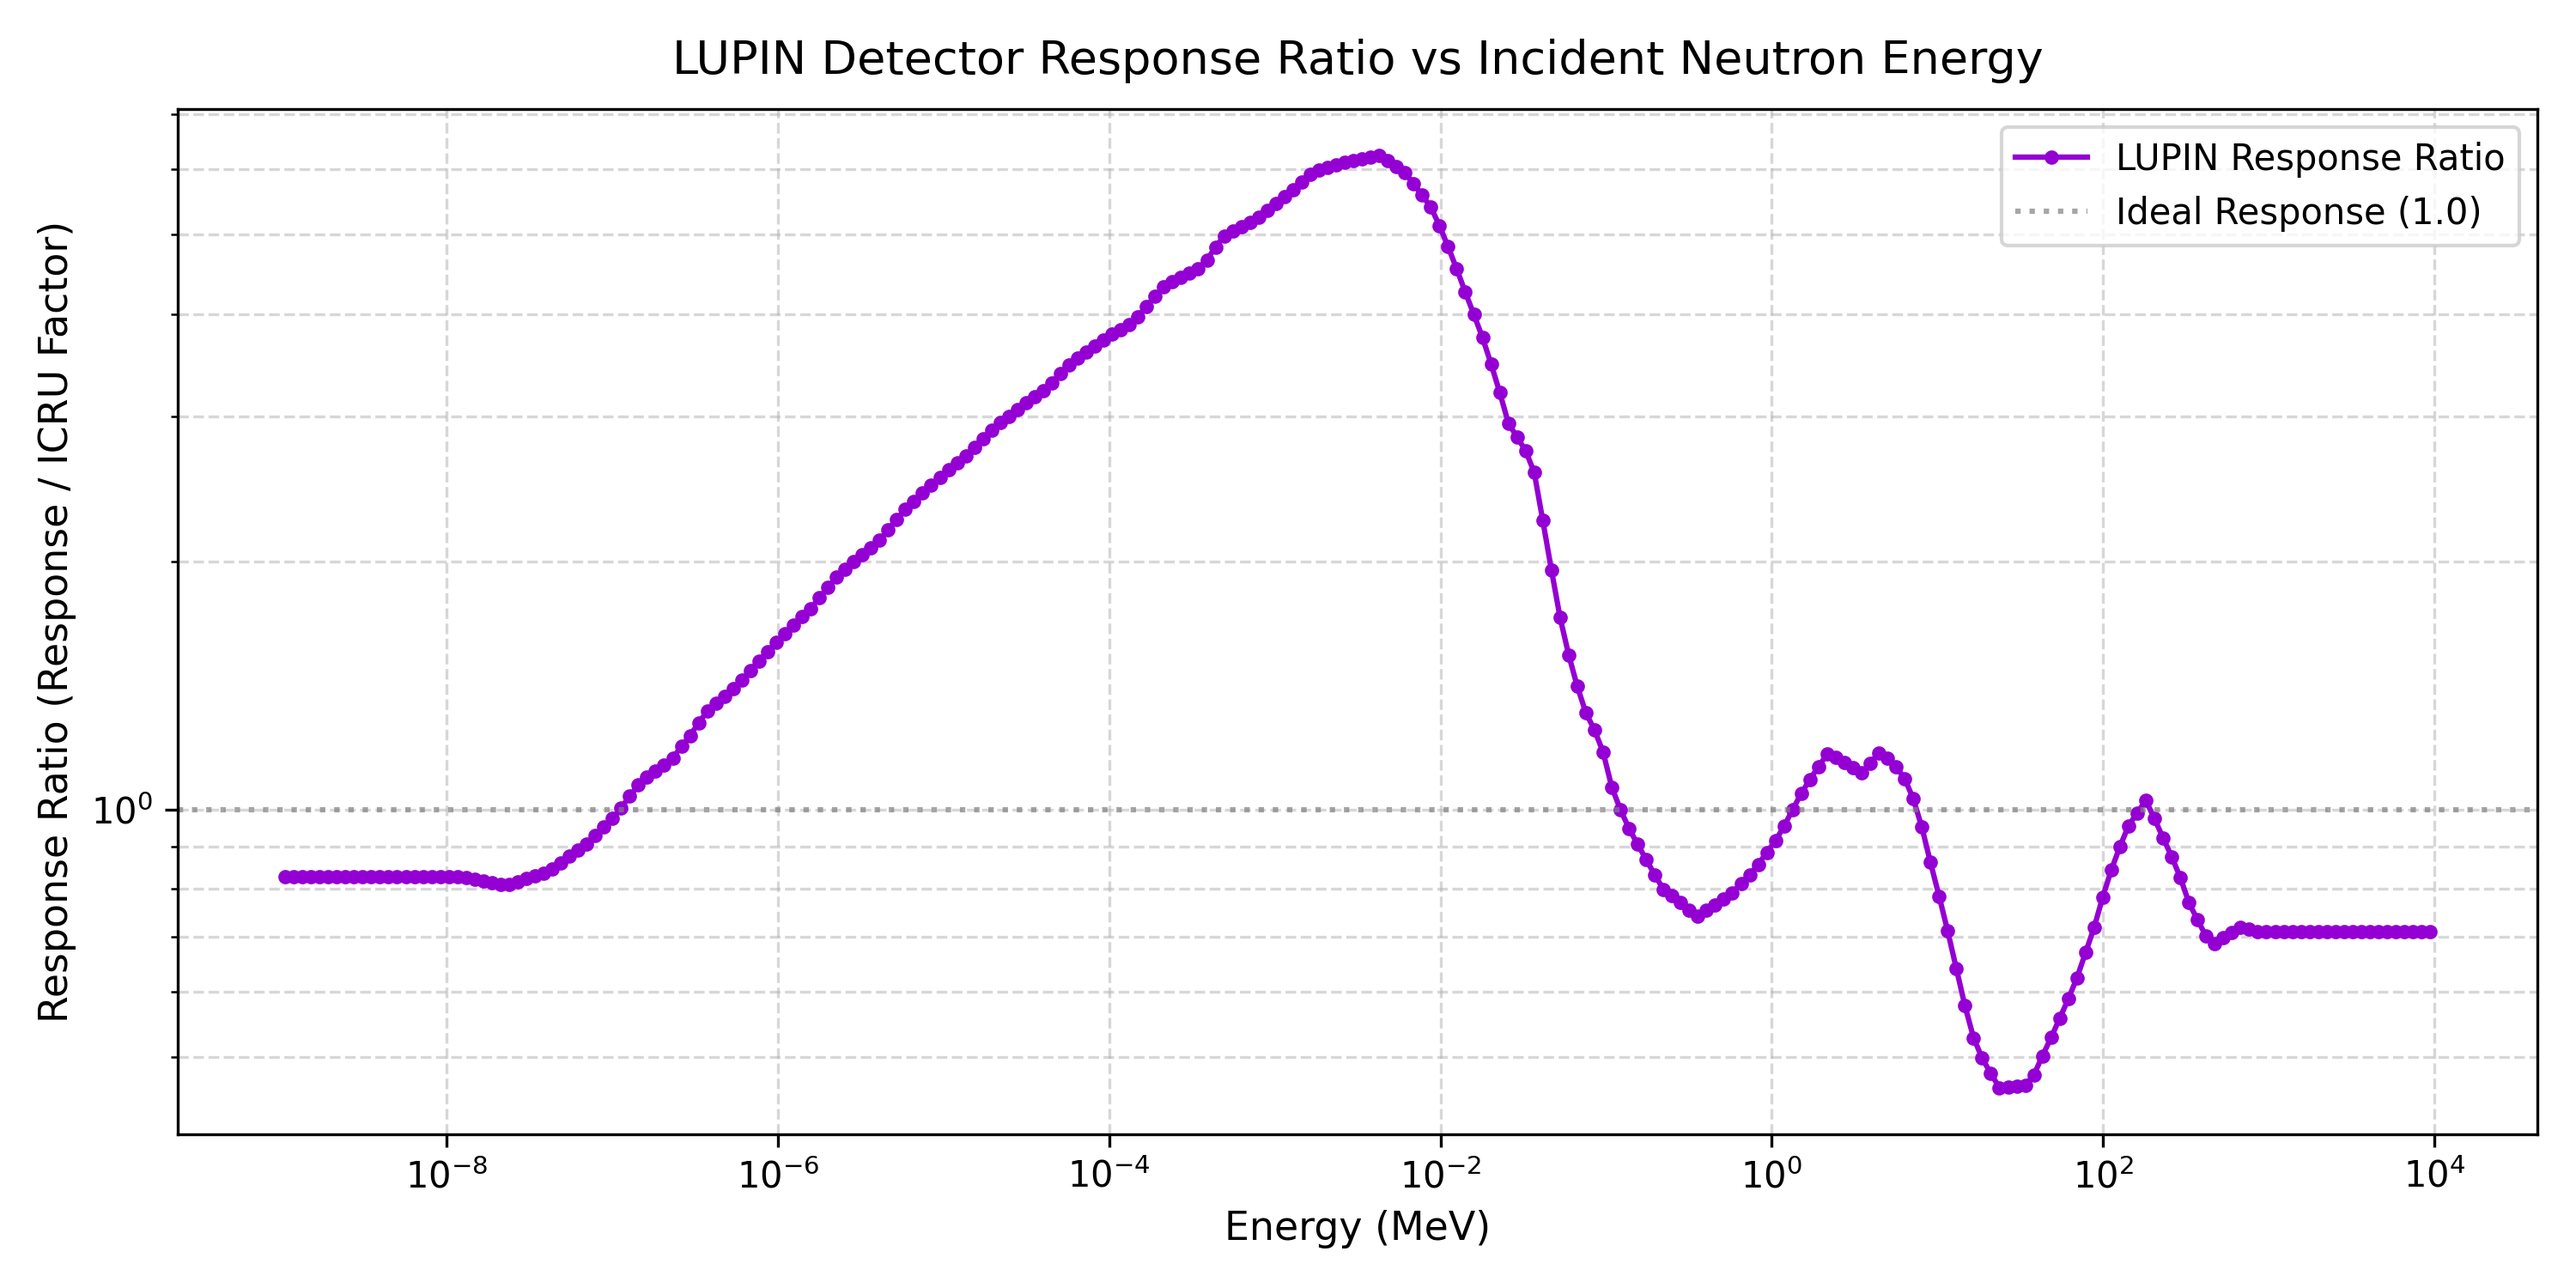
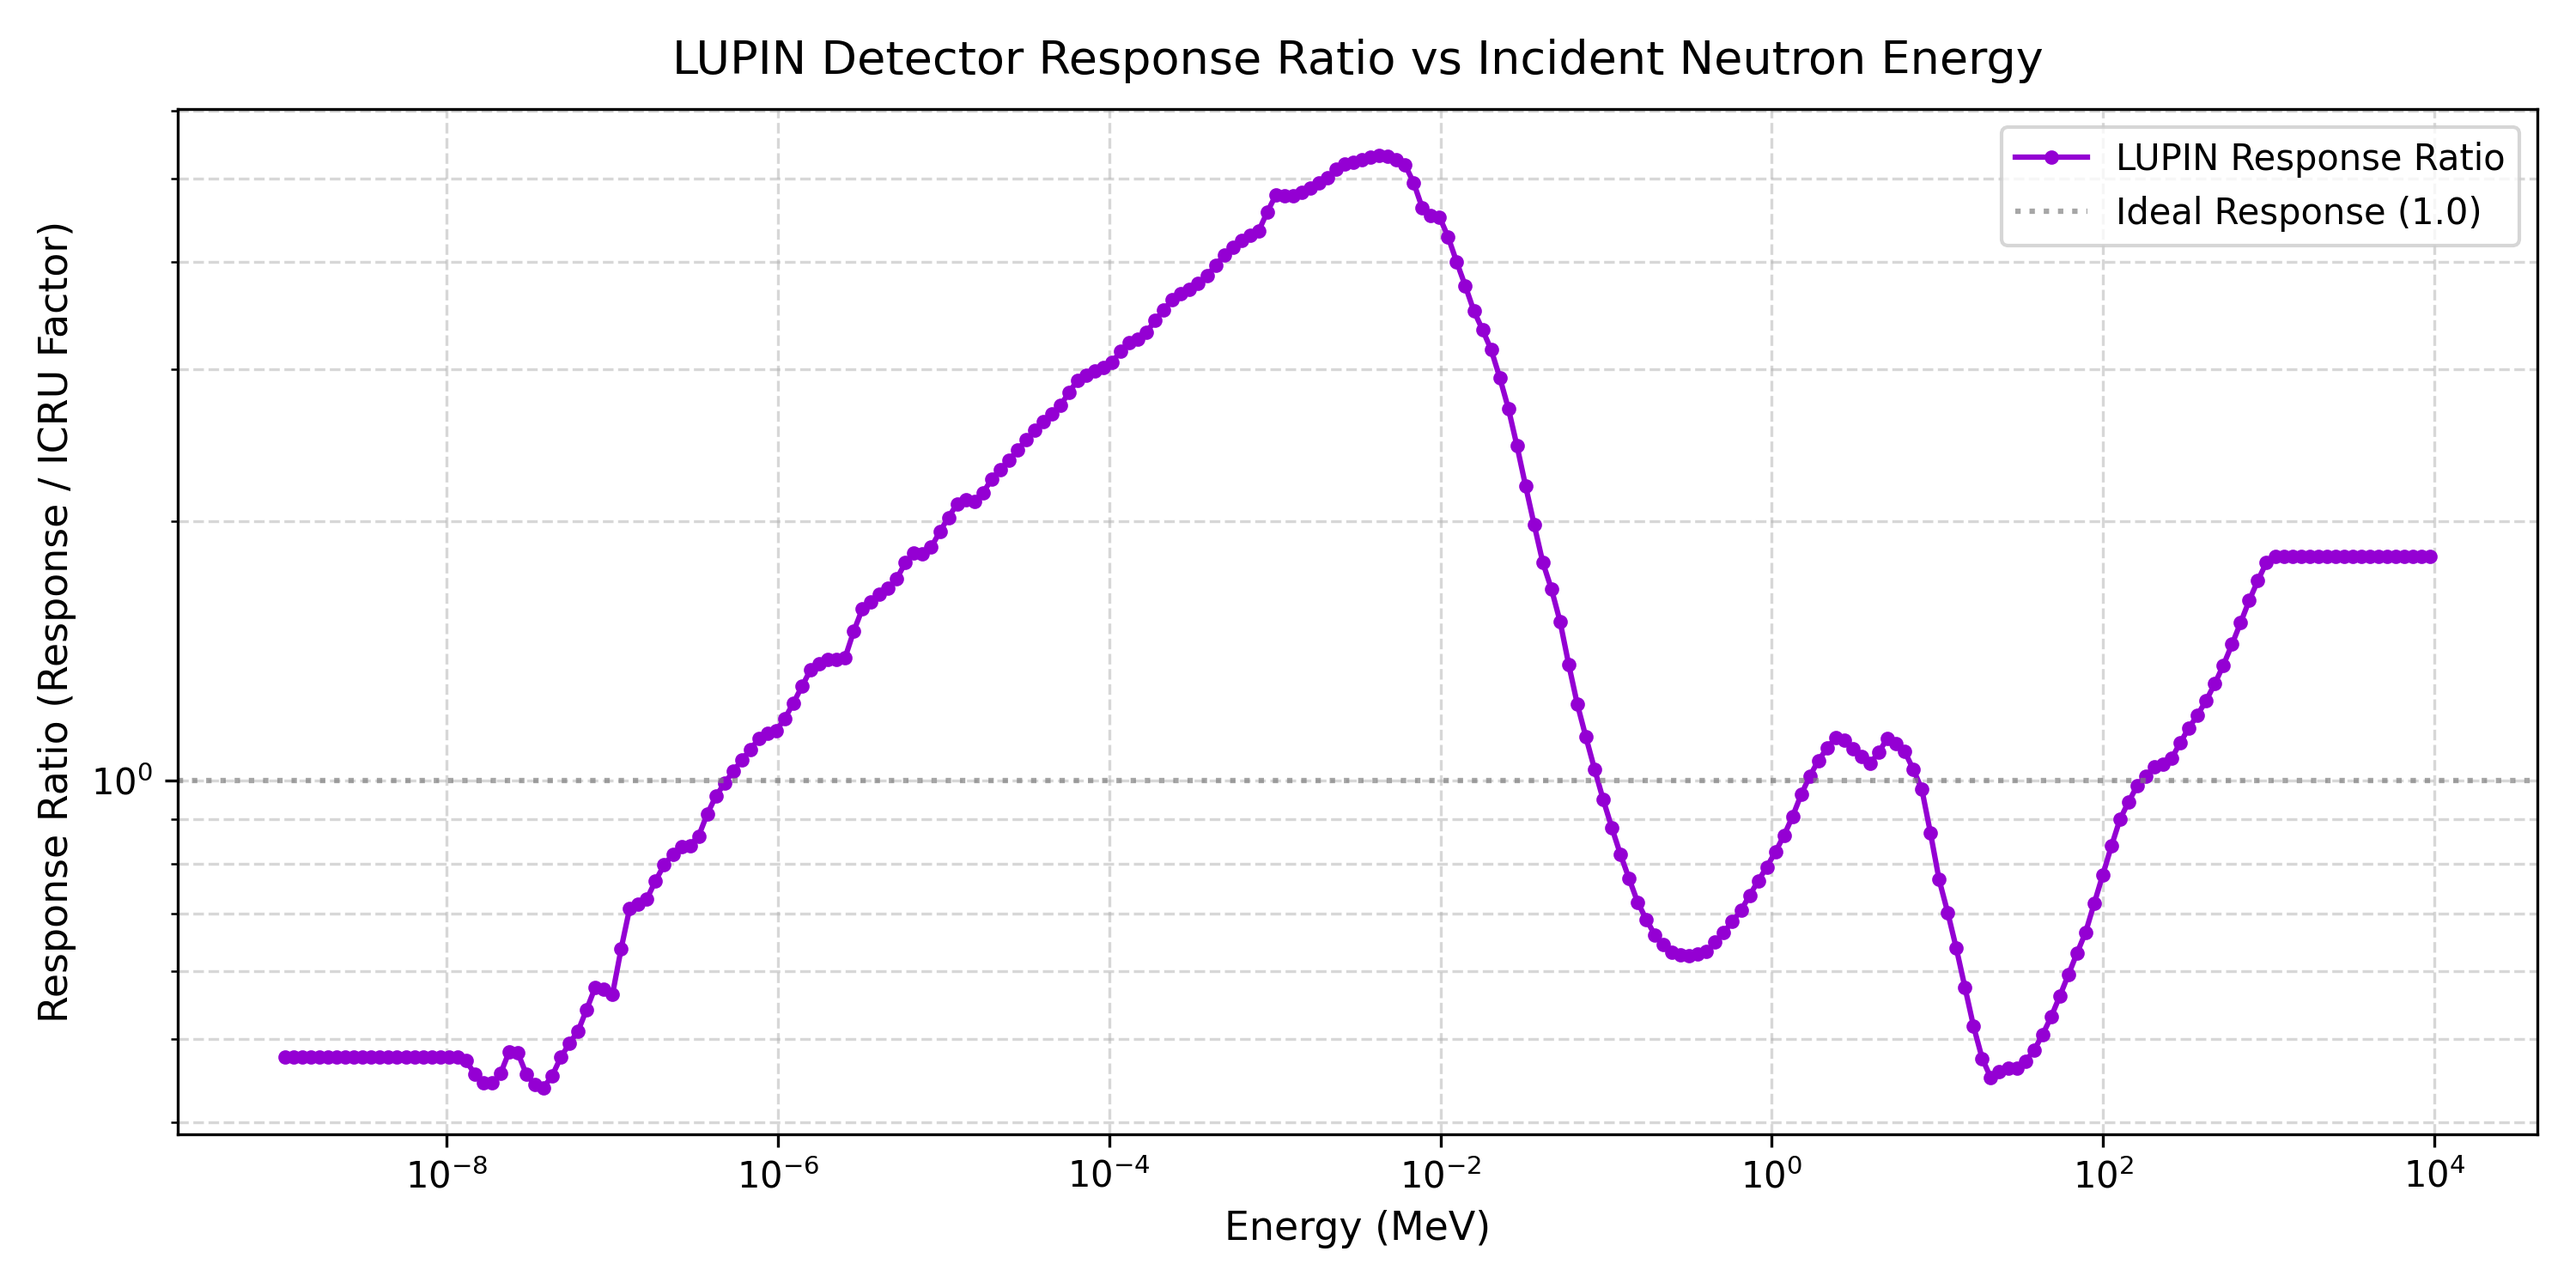
Use ELSE data for LUPIN correction estimation
This new version of the LUPIN correction calculation uses the LUPIN
relative response coming from ELSE. With this code the correction is a
0.77 underestimation of the real dose.

diff --git a/SwissFEL25/LUPIN_responsefolding/LUPIN-Folding.py b/SwissFEL25/LUPIN_responsefolding/LUPIN-Folding.py
@@ -216,6 +216,28 @@ lupin_ratio_response = np.array([
     0.7105233980818508
 ])
 
+# Data from ELSE Nuclear
+# Energy centrum from ELSE Nuclear (position 6)
+energy_centrum_else = [1.27E-08, 1.60E-08, 2.01E-08, 2.53E-08, 3.18E-08, 4.01E-08, 5.05E-08, 6.35E-08, 8.00E-08, 1.01E-07, 1.27E-07, 1.60E-07, 2.01E-07, 2.53E-07, 3.18E-07, 4.01E-07, 5.05E-07, 6.35E-07, 8.00E-07, 1.01E-06, 1.27E-06, 1.60E-06, 2.01E-06, 2.53E-06, 3.18E-06, 4.01E-06, 5.05E-06, 6.35E-06, 8.00E-06, 1.01E-05, 1.27E-05, 1.60E-05, 2.01E-05, 2.53E-05, 3.18E-05, 4.01E-05, 5.05E-05, 6.35E-05, 8.00E-05, 1.01E-04, 0.000126729, 0.000159541, 0.000200852, 0.000252857, 0.000318328, 0.000400751, 0.000504513, 0.000635145, 0.000799601, 0.001006649, 0.001267295, 0.001595413, 0.002008524, 0.002528574, 0.00318328, 0.004007512, 0.00504513, 0.006351455, 0.00799605, 0.010066101, 0.012672387, 0.015954132, 0.020085242, 0.025285744, 0.031832798, 0.040075116, 0.050451301, 0.063514103, 0.079959942, 0.100661005, 0.126723868, 0.159541317, 0.200852417, 0.252857441, 0.318327977, 0.400751158, 0.504517465, 0.635146638, 0.799599418, 1.006610053, 1.267238675, 1.595413172, 2.008524175, 2.528574413, 3.183279766, 4.007511578, 5.045130083, 6.351454837, 7.996050278, 10.06654616, 12.67294776, 15.95413172, 20.08524175, 25.28574413, 31.83279766, 40.07511578, 50.45130083, 63.51454837, 79.96005715, 100.6604443, 126.7238675, 159.5413172, 200.8524175, 252.8574413, 318.3279766, 400.7511578, 504.5174645, 635.1510938, 799.6005715, 1006.604443]
+
+# LUPIN response from ELSE Nuclear (nSv cm2)
+lupin_response_else = [4.47E-03, 4.35E-03, 4.52E-03, 5.26E-03, 4.87E-03, 4.96E-03, 5.64E-03, 6.21E-03, 7.22E-03, 7.27E-03, 9.30E-03, 9.63E-03, 1.07E-02, 1.13E-02, 1.14E-02, 1.28E-02, 1.37E-02, 1.44E-02, 1.51E-02, 1.52E-02, 1.63E-02, 1.76E-02, 1.78E-02, 1.75E-02, 1.96E-02, 2.00E-02, 2.03E-02, 2.16E-02, 2.11E-02, 2.24E-02, 2.35E-02, 2.28E-02, 2.39E-02, 2.46E-02, 2.55E-02, 2.63E-02, 2.69E-02, 2.83E-02, 2.85E-02, 2.85E-02, 0.029651862, 0.029622746, 0.030899732, 0.03195568, 0.032030384, 0.03272621, 0.03396654, 0.034681216, 0.034887348, 0.037801036, 0.037366036, 0.037747154, 0.038408006, 0.040388474, 0.041148448, 0.042155386, 0.042649604, 0.04538761, 0.043724054, 0.047570846, 0.04880758, 0.050109158, 0.052954348, 0.055869022, 0.056676208, 0.05912114, 0.06600922, 0.06840926, 0.0742342, 0.08125046, 0.08929216, 0.09894162, 0.11192782, 0.12838184, 0.15109116, 0.17654736, 0.21444746, 0.2509486, 0.2930218, 0.33782564, 0.37499436, 0.41748168, 0.44993384, 0.46925132, 0.44420112, 0.42532676, 0.45460284, 0.43368978, 0.40160882, 0.34213736, 0.32150386, 0.29367488, 0.26843386, 0.25436654, 0.23164098, 0.21905846, 0.214513, 0.2149219, 0.2144086, 0.22201356, 0.2333804, 0.24294982, 0.26888104, 0.27311852, 0.29591426, 0.3162566, 0.34469516, 0.38353428, 0.43022718, 0.47279222]
+lupin_response_else = [x*1000 for x in lupin_response_else] # convert to pSv cm2
+
+# Convertion factors from ELSE Nuclear from fluence to dose H*(10) (pSv cm2)
+conv_factors_else = [9.383712983, 9.772498935, 10.17734818, 10.59894685, 10.95365461, 11.32002342, 11.69865177, 12.08994208, 12.49431027, 12.90561297, 13.10199063, 13.30135319, 13.50046245, 13.52552301, 13.55063019, 13.5757842, 13.59606416, 13.4956944, 13.39606494, 13.29614025, 13.16194873, 13.02908828, 12.89567043, 12.66342745, 12.43536612, 12.21141004, 11.99064466, 11.7536177, 11.52128023, 11.29313945, 11.05576705, 10.82334912, 10.59663918, 10.41626881, 10.23896792, 10.06468339, 9.89335114, 9.72448949, 9.558502594, 9.395084952, 9.226041284, 9.060041858, 8.897117204, 8.742430844, 8.590433285, 8.441077042, 8.294687238, 8.159698022, 8.026906914, 7.898063469, 7.831071953, 7.764651337, 7.701366152, 7.775691366, 7.850734183, 7.926501926, 8.028251192, 8.787250894, 9.618019913, 10.5458115, 12.27884497, 14.29705728, 16.66211588, 20.39610481, 25.26409658, 32.38000703, 41.51735925, 53.78601201, 69.21314337, 88.58168463, 111.5170034, 139.356354, 170.5630585, 204.0007197, 241.9167899, 279.8964632, 323.3142374, 358.8473411, 388.0323782, 416.3218769, 424.4635418, 422.2049496, 419.915285, 415.3542978, 411.1722861, 407.9746844, 404.7521224, 401.8391596, 408.9851343, 441.3949549, 493.7937484, 554.3239803, 599.0393486, 549.2624609, 500.1117995, 446.2700239, 398.2983658, 357.0782328, 319.4044506, 284.229173, 258.8419155, 246.988125, 259.9459329, 260, 260, 260, 260, 260, 260, 260]
+
+# Calculate the LUPIN ratio from ELSE Nuclear data to compare with your lupin_ratio_at_sim_energies
+# Ratio = Absolute Response / Conversion Factor
+lupin_ratio_else = [r / c for r, c in zip(lupin_response_else, conv_factors_else)]
+
+# Use data from ELSE for the LUPIN relative response
+USEELSEDATA = True
+
+if USEELSEDATA:
+    lupin_energies_MeV = energy_centrum_else
+    lupin_ratio_response = lupin_ratio_else
+
 from scipy.interpolate import interp1d
 
 # ==============================================================================
@@ -303,21 +325,6 @@ color_lupin = 'tab:green'
 
 line2 = ax2.plot(E_center, icru_at_sim_energies, color=color_icru, label='ICRU Factor [pSv cm$^{2}$]', linestyle='--')
 line3 = ax2.plot(E_center, lupin_ratio_at_sim_energies, color=color_lupin, label='LUPIN Ratio', linestyle='-.')
-
-# Data from ELSE Nuclear
-# Energy centrum from ELSE Nuclear (position 6)
-energy_centrum_else = [1.27E-08, 1.60E-08, 2.01E-08, 2.53E-08, 3.18E-08, 4.01E-08, 5.05E-08, 6.35E-08, 8.00E-08, 1.01E-07, 1.27E-07, 1.60E-07, 2.01E-07, 2.53E-07, 3.18E-07, 4.01E-07, 5.05E-07, 6.35E-07, 8.00E-07, 1.01E-06, 1.27E-06, 1.60E-06, 2.01E-06, 2.53E-06, 3.18E-06, 4.01E-06, 5.05E-06, 6.35E-06, 8.00E-06, 1.01E-05, 1.27E-05, 1.60E-05, 2.01E-05, 2.53E-05, 3.18E-05, 4.01E-05, 5.05E-05, 6.35E-05, 8.00E-05, 1.01E-04, 0.000126729, 0.000159541, 0.000200852, 0.000252857, 0.000318328, 0.000400751, 0.000504513, 0.000635145, 0.000799601, 0.001006649, 0.001267295, 0.001595413, 0.002008524, 0.002528574, 0.00318328, 0.004007512, 0.00504513, 0.006351455, 0.00799605, 0.010066101, 0.012672387, 0.015954132, 0.020085242, 0.025285744, 0.031832798, 0.040075116, 0.050451301, 0.063514103, 0.079959942, 0.100661005, 0.126723868, 0.159541317, 0.200852417, 0.252857441, 0.318327977, 0.400751158, 0.504517465, 0.635146638, 0.799599418, 1.006610053, 1.267238675, 1.595413172, 2.008524175, 2.528574413, 3.183279766, 4.007511578, 5.045130083, 6.351454837, 7.996050278, 10.06654616, 12.67294776, 15.95413172, 20.08524175, 25.28574413, 31.83279766, 40.07511578, 50.45130083, 63.51454837, 79.96005715, 100.6604443, 126.7238675, 159.5413172, 200.8524175, 252.8574413, 318.3279766, 400.7511578, 504.5174645, 635.1510938, 799.6005715, 1006.604443]
-
-# LUPIN response from ELSE Nuclear (nSv cm2)
-lupin_response_else = [4.47E-03, 4.35E-03, 4.52E-03, 5.26E-03, 4.87E-03, 4.96E-03, 5.64E-03, 6.21E-03, 7.22E-03, 7.27E-03, 9.30E-03, 9.63E-03, 1.07E-02, 1.13E-02, 1.14E-02, 1.28E-02, 1.37E-02, 1.44E-02, 1.51E-02, 1.52E-02, 1.63E-02, 1.76E-02, 1.78E-02, 1.75E-02, 1.96E-02, 2.00E-02, 2.03E-02, 2.16E-02, 2.11E-02, 2.24E-02, 2.35E-02, 2.28E-02, 2.39E-02, 2.46E-02, 2.55E-02, 2.63E-02, 2.69E-02, 2.83E-02, 2.85E-02, 2.85E-02, 0.029651862, 0.029622746, 0.030899732, 0.03195568, 0.032030384, 0.03272621, 0.03396654, 0.034681216, 0.034887348, 0.037801036, 0.037366036, 0.037747154, 0.038408006, 0.040388474, 0.041148448, 0.042155386, 0.042649604, 0.04538761, 0.043724054, 0.047570846, 0.04880758, 0.050109158, 0.052954348, 0.055869022, 0.056676208, 0.05912114, 0.06600922, 0.06840926, 0.0742342, 0.08125046, 0.08929216, 0.09894162, 0.11192782, 0.12838184, 0.15109116, 0.17654736, 0.21444746, 0.2509486, 0.2930218, 0.33782564, 0.37499436, 0.41748168, 0.44993384, 0.46925132, 0.44420112, 0.42532676, 0.45460284, 0.43368978, 0.40160882, 0.34213736, 0.32150386, 0.29367488, 0.26843386, 0.25436654, 0.23164098, 0.21905846, 0.214513, 0.2149219, 0.2144086, 0.22201356, 0.2333804, 0.24294982, 0.26888104, 0.27311852, 0.29591426, 0.3162566, 0.34469516, 0.38353428, 0.43022718, 0.47279222]
-lupin_response_else = [x*1000 for x in lupin_response_else] # convert to pSv cm2
-
-# Convertion factors from ELSE Nuclear from fluence to dose H*(10) (pSv cm2)
-conv_factors_else = [9.383712983, 9.772498935, 10.17734818, 10.59894685, 10.95365461, 11.32002342, 11.69865177, 12.08994208, 12.49431027, 12.90561297, 13.10199063, 13.30135319, 13.50046245, 13.52552301, 13.55063019, 13.5757842, 13.59606416, 13.4956944, 13.39606494, 13.29614025, 13.16194873, 13.02908828, 12.89567043, 12.66342745, 12.43536612, 12.21141004, 11.99064466, 11.7536177, 11.52128023, 11.29313945, 11.05576705, 10.82334912, 10.59663918, 10.41626881, 10.23896792, 10.06468339, 9.89335114, 9.72448949, 9.558502594, 9.395084952, 9.226041284, 9.060041858, 8.897117204, 8.742430844, 8.590433285, 8.441077042, 8.294687238, 8.159698022, 8.026906914, 7.898063469, 7.831071953, 7.764651337, 7.701366152, 7.775691366, 7.850734183, 7.926501926, 8.028251192, 8.787250894, 9.618019913, 10.5458115, 12.27884497, 14.29705728, 16.66211588, 20.39610481, 25.26409658, 32.38000703, 41.51735925, 53.78601201, 69.21314337, 88.58168463, 111.5170034, 139.356354, 170.5630585, 204.0007197, 241.9167899, 279.8964632, 323.3142374, 358.8473411, 388.0323782, 416.3218769, 424.4635418, 422.2049496, 419.915285, 415.3542978, 411.1722861, 407.9746844, 404.7521224, 401.8391596, 408.9851343, 441.3949549, 493.7937484, 554.3239803, 599.0393486, 549.2624609, 500.1117995, 446.2700239, 398.2983658, 357.0782328, 319.4044506, 284.229173, 258.8419155, 246.988125, 259.9459329, 260, 260, 260, 260, 260, 260, 260]
-
-# Calculate the LUPIN ratio from ELSE Nuclear data to compare with your lupin_ratio_at_sim_energies
-# Ratio = Absolute Response / Conversion Factor
-lupin_ratio_else = [r / c for r, c in zip(lupin_response_else, conv_factors_else)]
 
 # Plot ELSE Nuclear data on the right y-axis for comparison
 # Using different styles and colors to distinguish them
